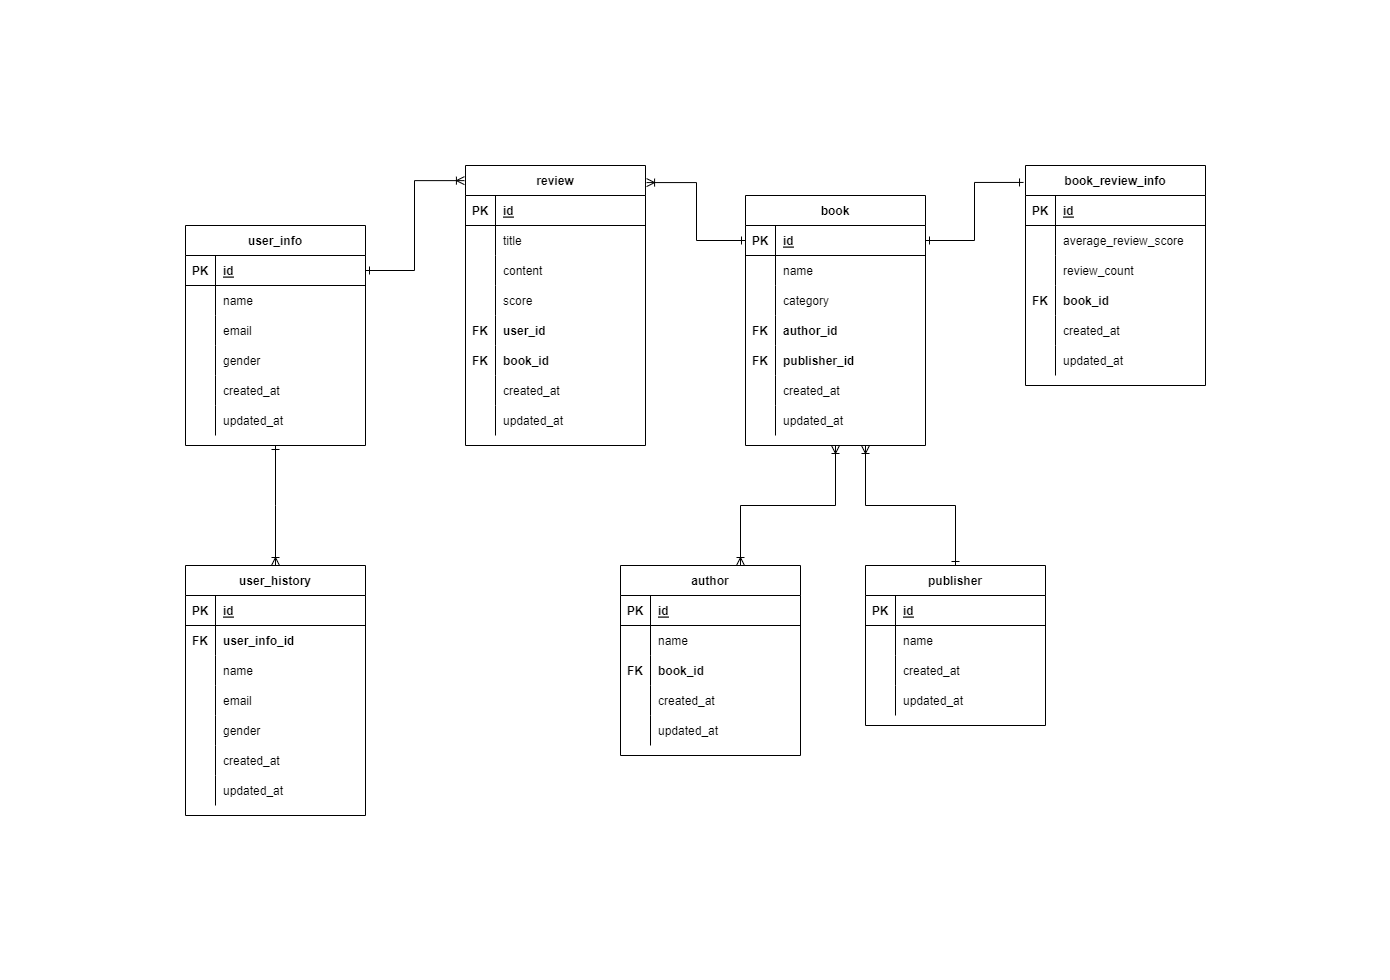
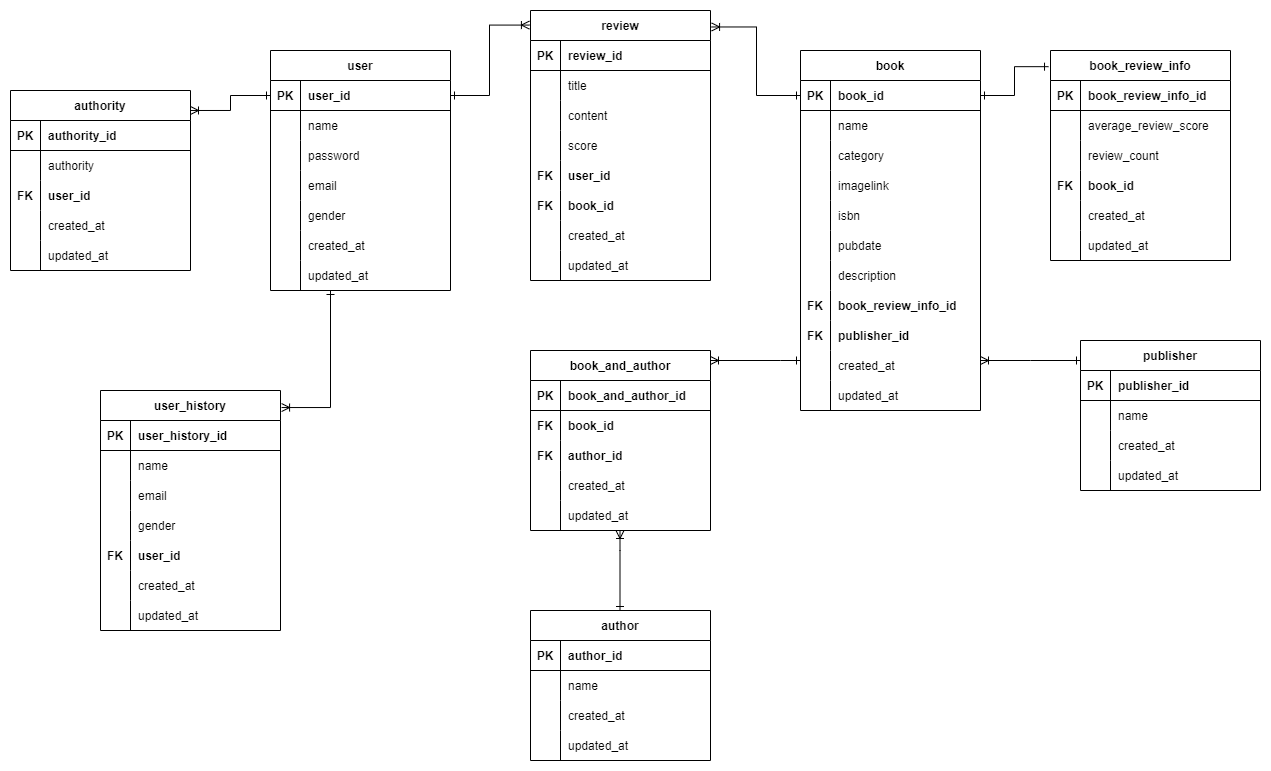
docs : 변경된 Entity 반영한 ERD 수정 및 Entity 컬럼명 오타 수정

diff --git a/src/main/java/com/platinouss/bookrecommend/domain/Review.java b/src/main/java/com/platinouss/bookrecommend/domain/Review.java
@@ -13,7 +13,7 @@ import javax.persistence.*;
 public class Review extends BaseEntity {
     @Id
     @GeneratedValue(strategy = GenerationType.IDENTITY)
-    @Column(name = "review_name")
+    @Column(name = "review_id")
     private Long id;
 
     private String title;
